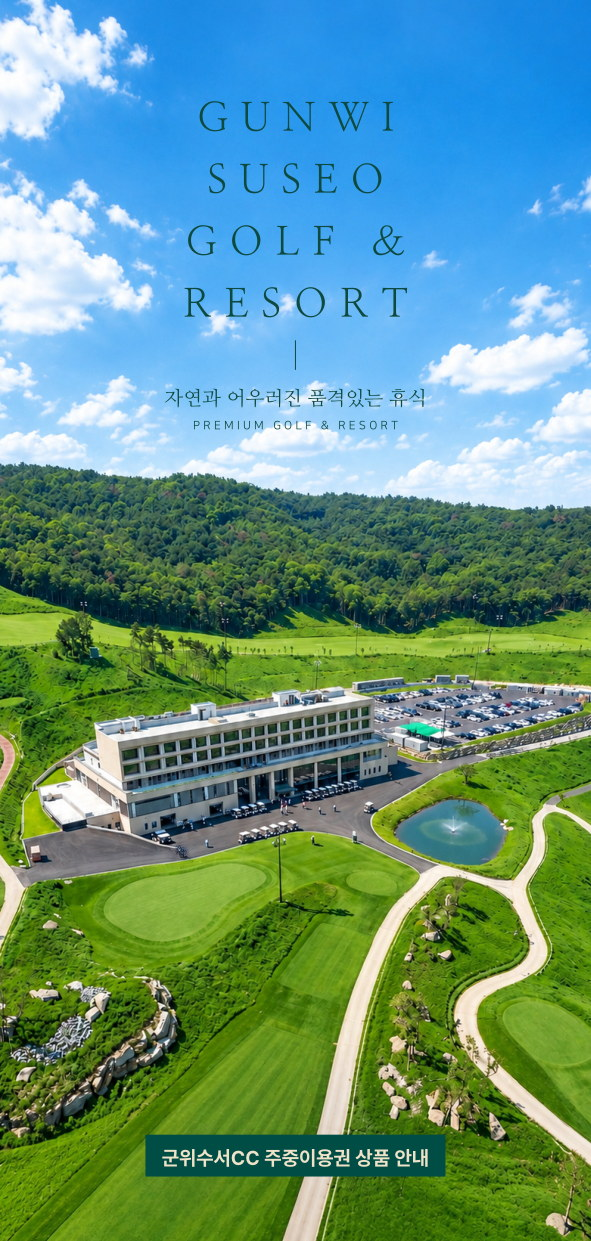
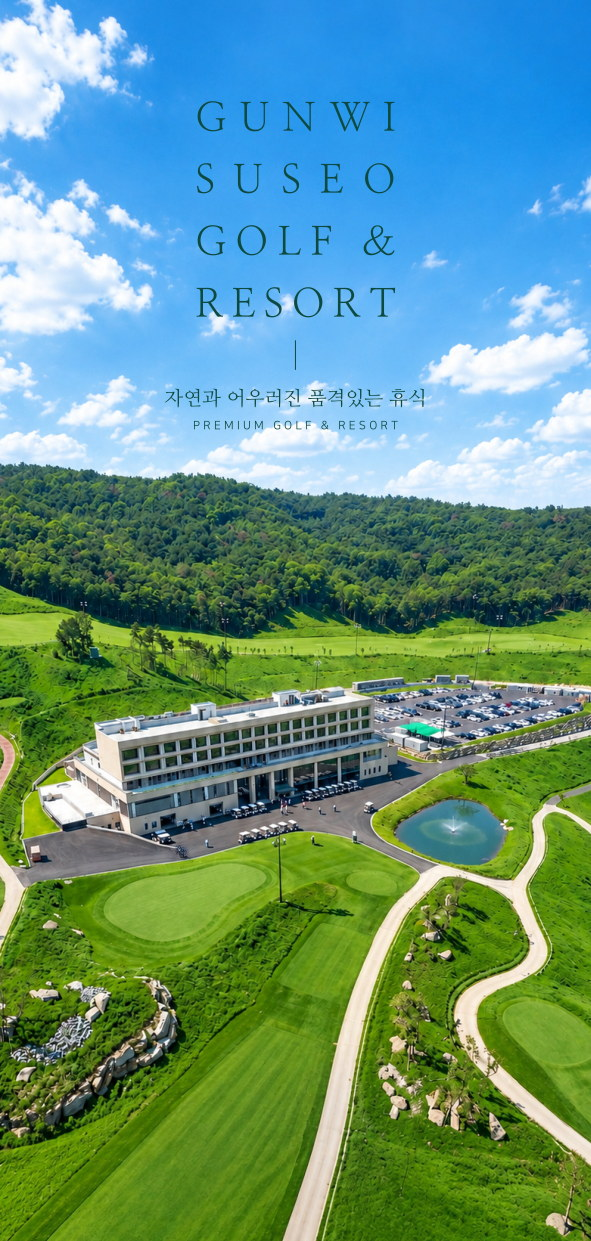
v4: 표지 띠 제거·레터링 양끝 맞춤, 접힘면 풀/가로띠/야경+객실 재구성

diff --git a/leaflet/index.html b/leaflet/index.html
@@ -90,7 +90,7 @@
 
 <script>
 (function () {
-  var BUILD = '202609070856';   // 이미지 캐시 무효화용. 빌드마다 갱신
+  var BUILD = '202609071338';   // 이미지 캐시 무효화용. 빌드마다 갱신
   var VERS = [
     ['v2', 'v2 원본 사진'],
     ['v3b', 'v3 실사진'],
